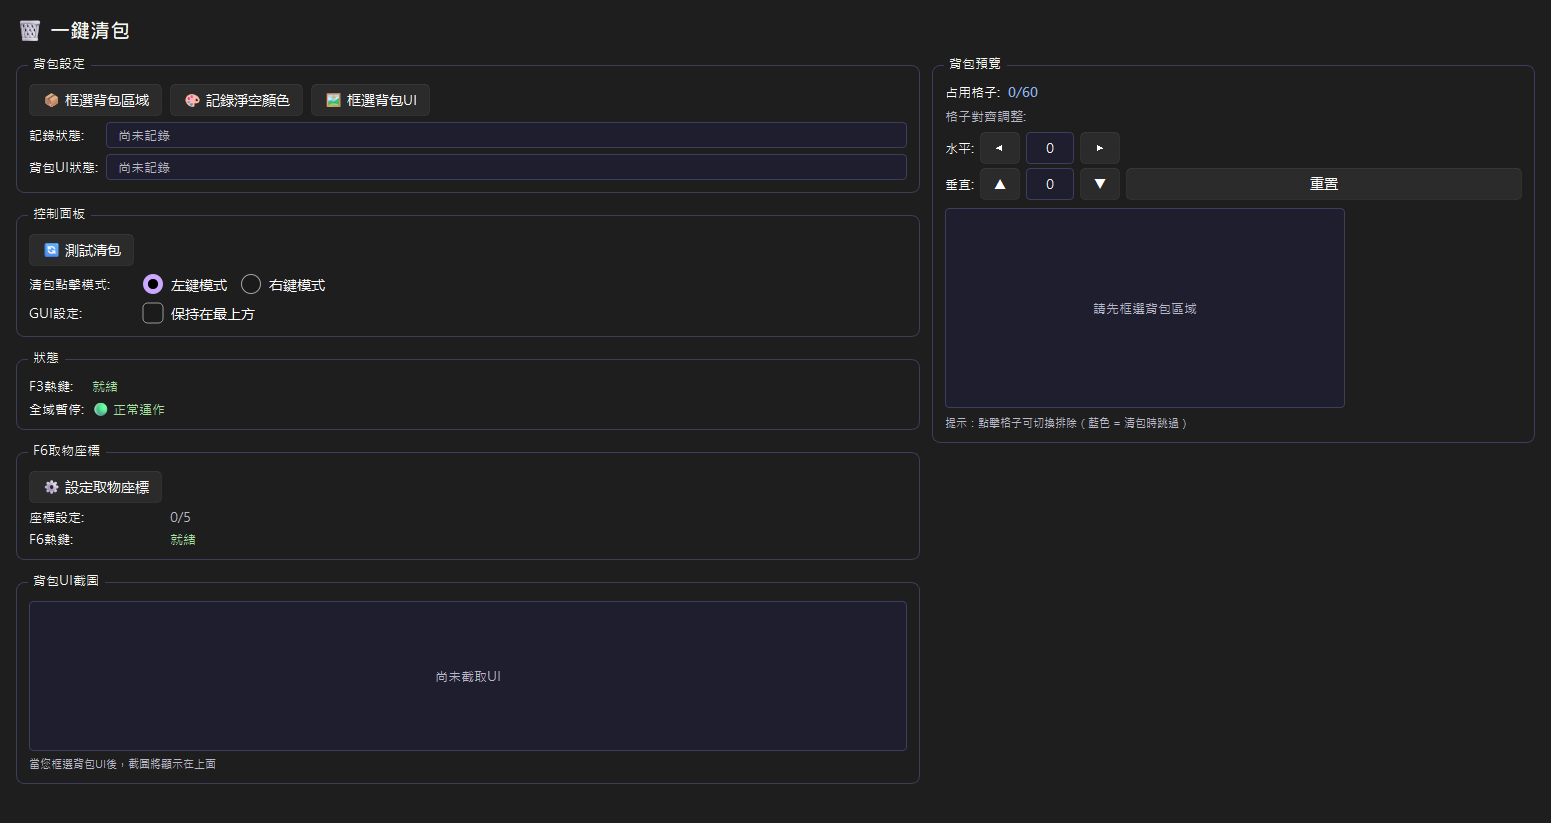
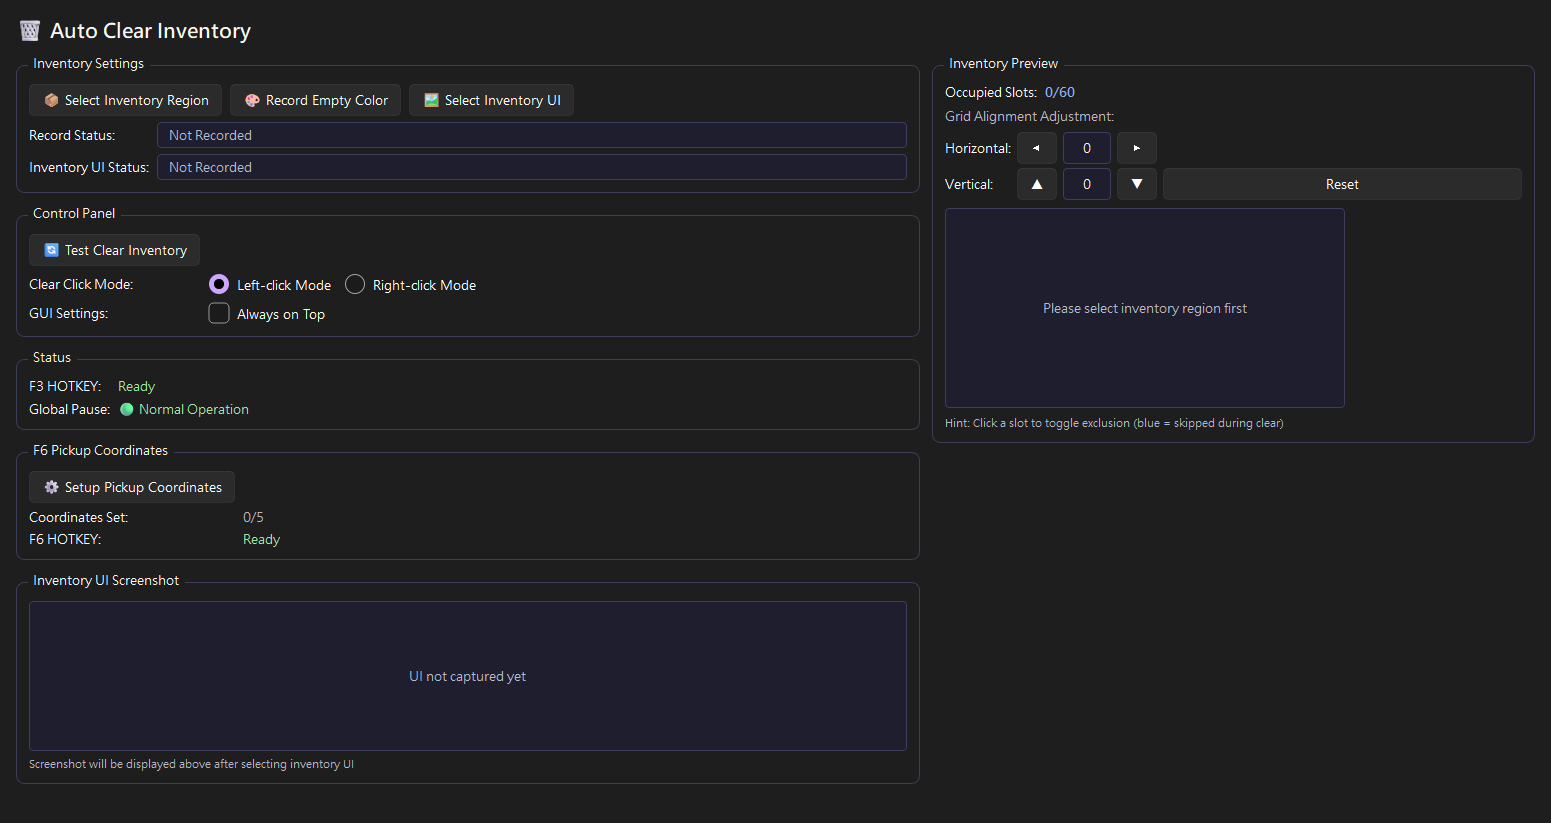
docs: GUI 截圖改為英文版（README 首頁為英文）

diff --git a/tools/capture_screenshots.py b/tools/capture_screenshots.py
@@ -1,8 +1,8 @@
-"""GUI 截圖工具：渲染全部 8 頁，存 PNG（頁面本體，直擷 tab.grab()）。
+"""GUI 截圖工具：渲染全部 8 頁，存 PNG（頁面本體）。
 
-用法: python tools/capture_screenshots.py [--out assets/screenshots]
-注意: 需用 QT_QPA_PLATFORM=windows 真實渲染（offscreen 會把 FluentWindow
-的半透明底層抓成白色，Dark 主題失效）；會閃出視窗。
+用法: python tools/capture_screenshots.py [--lang en] [--out assets/screenshots]
+注意: 需用 QT_QPA_PLATFORM=windows 真實渲染；會閃出視窗。
+截圖預設英文（README 首頁為英文），--lang 可改 zh-tw / zh-cn / en。
 """
 
 import argparse
@@ -56,6 +56,7 @@ def switch_to(window, widget):
 def main() -> int:
     ap = argparse.ArgumentParser()
     ap.add_argument("--out", default=os.path.join(ROOT, "assets", "screenshots"))
+    ap.add_argument("--lang", default="en")
     args = ap.parse_args()
     if "--smoke" not in sys.argv:
         sys.argv.append("--smoke")
@@ -67,7 +68,24 @@ def main() -> int:
 
     from qt.main_window import MainWindow
 
+    # ponytail: 截圖前把 config 語系覆寫成 args.lang，讓各 Tab 以該語系
+    # 建置 UI；並阻擋 MainWindow 內部 load_config 覆回使用者檔，
+    # 截完不回寫，絕不動使用者設定檔。
+    try:
+        from config_manager import get_config_manager
+
+        _cm = get_config_manager()
+        _cm.load_config()
+        _orig_lang = _cm.config.get("language", "zh-tw")
+        _cm.config["language"] = args.lang
+        _orig_load = _cm.load_config
+        _cm.load_config = lambda: None
+        print(f"lang: {_orig_lang} -> {args.lang} (config in-memory only)")
+    except Exception as e:
+        print(f"lang override failed: {e}")
+
     window = MainWindow()
+    window._reset_no_save = True  # 截圖期間禁止 autosave 落盤
     window.show()
     app.processEvents()
     time.sleep(1.5)
